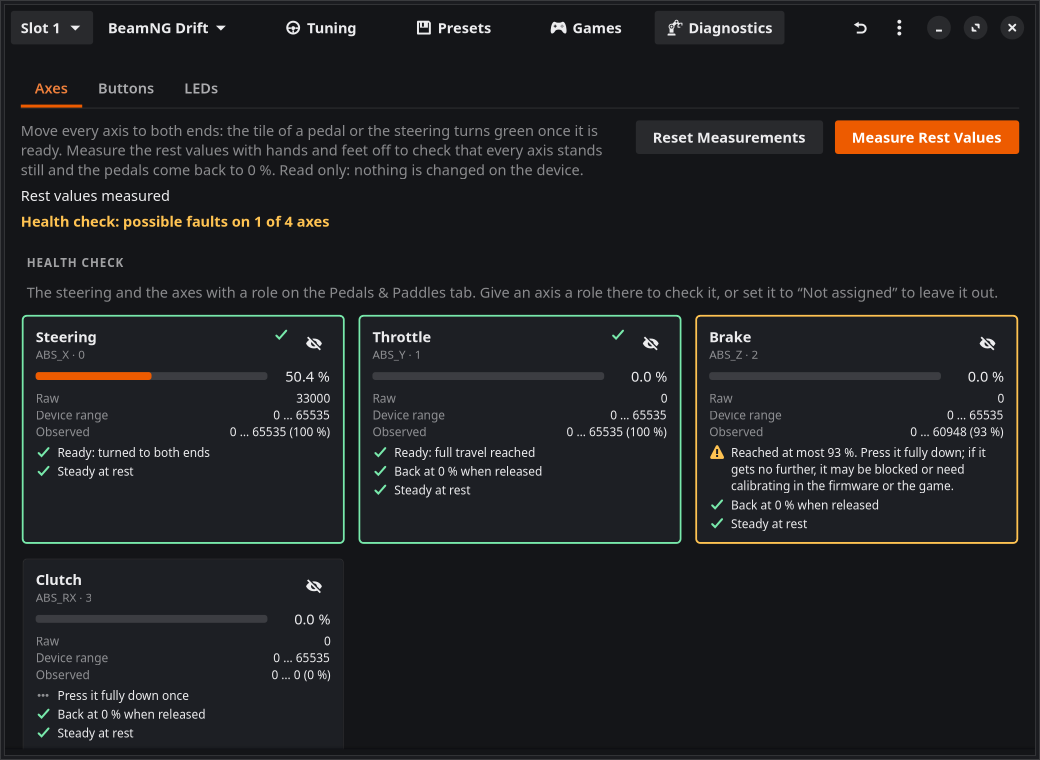
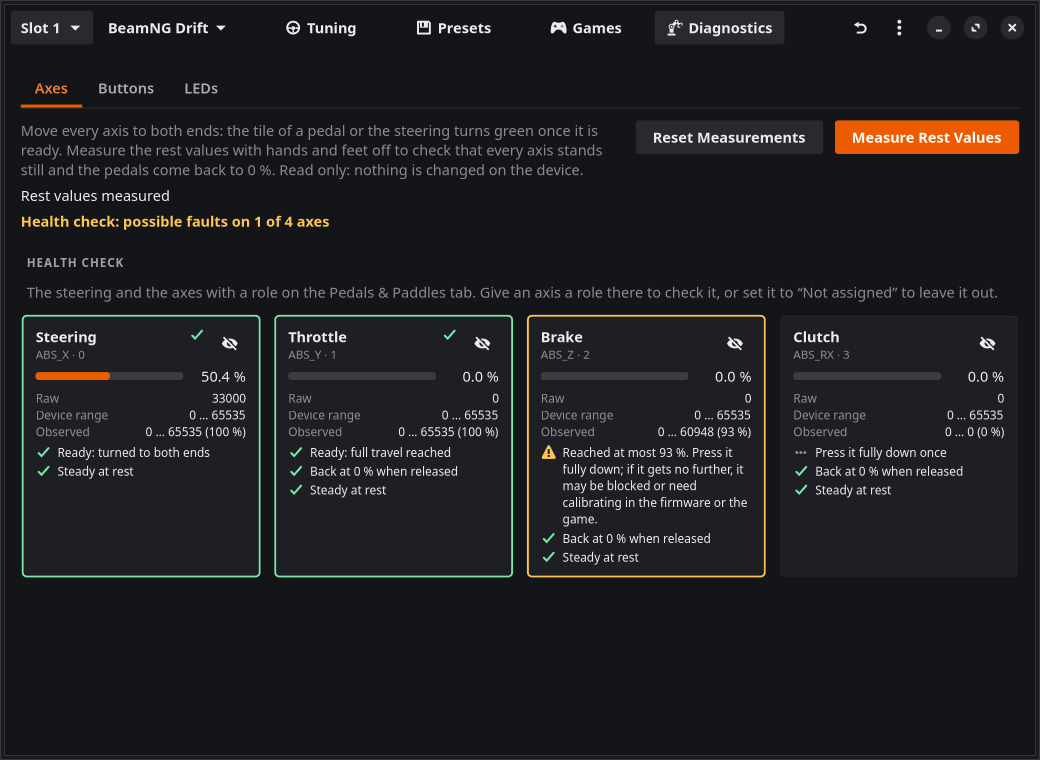
Fit four axis tiles into a row and show a Full HD window in the README
The value lines of an axis tile asked for room for the longest value;
the shared columns keep the tiles' width anyway, so they now ask for a
usual one, and four tiles fit into a row in a 1040 px window. The
README keeps its 1040 px screenshots and adds one of the Tuning view in
a maximized Full HD window; tools/screenshots.py makes it too. The
German health check hint names the role "Nicht zugeordnet" as the
pedals tab does.

diff --git a/tools/screenshots.py b/tools/screenshots.py
@@ -7,7 +7,8 @@ Runs Understeer on an invisible screen (Xvfb) with its own home folder in
 the work folder (a new folder in /tmp if none is given; it is left there
 for a look afterwards), a fake wheelbase, example presets and games, and
 saves docs/screenshot.png, presets.png, select.png, games.png and
-diagnostics.png. Nothing of your own configuration is read or changed;
+diagnostics.png in a 1040 px window, and wide.png, the Tuning view in a
+maximized Full HD window. Nothing of your own configuration is read or changed;
 only the covers of the example games are copied from your Steam cache if
 it has them (otherwise the tiles show their name). Nothing goes to the
 network.
@@ -24,6 +25,7 @@ import tempfile
 ROOT = pathlib.Path(__file__).resolve().parent.parent
 DOCS = ROOT / "docs"
 SIZE = (1050, 770)      # the window; its shadow takes 5 px of each side
+WIDE = (1930, 1090)     # a maximized window on a Full HD screen
 
 GAMES = [   # Steam app id, name, preset
     (805550, "Assetto Corsa Competizione", "Spa GT3"),
@@ -67,7 +69,7 @@ def outer(work):
     steam_covers(home / ".cache" / "Understeer" / "covers")
     read, write = os.pipe()
     xvfb = subprocess.Popen(
-        ["Xvfb", "-displayfd", str(write), "-screen", "0", "1600x1000x24",
+        ["Xvfb", "-displayfd", str(write), "-screen", "0", "2000x1200x24",
          "-nolisten", "tcp"], pass_fds=(write,),
         stdout=subprocess.DEVNULL, stderr=subprocess.DEVNULL)
     os.close(write)
@@ -215,6 +217,16 @@ def inner(work):
         yield diagnostics
         yield lambda: None
         yield lambda: shoot(win, "diagnostics")
+
+        def wide():
+            win.set_default_size(*WIDE)
+            wheel.update(round(32767 + 60 / 270 * 32767))
+            gas.update(round(0.72 * 65535))
+            win._select_page("tuning")
+            win._update_inputs()
+        yield wide
+        yield lambda: None
+        yield lambda: shoot(win, "wide")
 
     application = app.TunerApplication()
 

diff --git a/understeer/ui/axis_diagnostics.py b/understeer/ui/axis_diagnostics.py
@@ -17,8 +17,11 @@ from ..inputs import AXIS_ROLES, kernel_name
 from . import layout
 from .health_check import HealthCheck, finding_box, lines, show_lines
 
-# Room for the longest value, "-32768 … 32767 (100 %)": the tiles get their
-# width from it, so they keep it when the values change.
+# The values ask for room for a usual one, "0 … 65535 (100 %)", at least,
+# and for the longest, "-32768 … 32767 (100 %)", at most. The tiles keep
+# their width when the values change anyway: the grid gives them the width
+# of its columns (see layout.Columns), not the one of their text.
+VALUE_MIN_CHARS = 17
 VALUE_CHARS = 22
 
 
@@ -53,7 +56,7 @@ def _value_line(grid, row, title):
     """A small line "title  value" in grid; returns the value label."""
     name = Gtk.Label(label=title, xalign=0, css_classes=["dim-label", "caption"])
     value = Gtk.Label(xalign=1, hexpand=True, css_classes=["numeric", "caption"],
-                      width_chars=VALUE_CHARS, max_width_chars=VALUE_CHARS,
+                      width_chars=VALUE_MIN_CHARS, max_width_chars=VALUE_CHARS,
                       ellipsize=Pango.EllipsizeMode.END)
     grid.attach(name, 0, row, 1, 1)
     grid.attach(value, 1, row, 1, 1)

diff --git a/README.md b/README.md
@@ -39,6 +39,10 @@ A modern, GTK4/Libadwaita graphical utility for adjusting Fanatec wheelbases and
 
 ![Health check on the Axes tab of Diagnostics: steering and throttle ready, the brake doesn't reach full travel](docs/diagnostics.png)
 
+In a maximized window, e.g. on a Full HD or 4K screen, the pages use the width: the settings get wider tiles with longer sliders, and the Presets and Games pages show more tiles per row.
+
+![Tuning in a maximized Full HD window with wider tiles](docs/wide.png)
+
 ## Prerequisites
 
 This application requires the [hid-fanatecff](https://github.com/gotzl/hid-fanatecff) kernel driver to be installed and active on your system. Without it, your system will not expose the hardware tuning paths required by this interface.
@@ -145,7 +149,7 @@ Everything outside `ui/`, `inputs.py` and `app.py` works without GTK.
 
 Run the tests with `python3 -m pytest` (needs pytest, for example `sudo apt install python3-pytest`). They use a fake sysfs and temporary folders, so no wheelbase or password is needed. One test runs the whole app on an invisible screen; it needs Xvfb (`sudo apt install xvfb`) and is skipped without it.
 
-The screenshots in `docs/` are made the same way: `python3 tools/screenshots.py` runs Understeer with a fake wheelbase and example presets and games in a home folder of its own and saves them. Your configuration isn't touched; only the covers of the example games are copied from your Steam cache, if it has them.
+The screenshots in `docs/` are made the same way: `python3 tools/screenshots.py` runs Understeer with a fake wheelbase and example presets and games in a home folder of its own and saves them, in a 1040 px window and one in a maximized Full HD window. Your configuration isn't touched; only the covers of the example games are copied from your Steam cache, if it has them.
 GitHub runs them on every push and pull request, and a release is only built when they pass.
 
 To release a version, first add it with its changes (in English and German, see the comment there) to `<releases>` in `io.github.JamDaBam.Understeer.metainfo.xml`, then push a tag like `v1.9.0`. The app opens these notes as *What's New* after an update (also in the main menu), and the release build takes the GitHub release notes from there; without them it stops.
